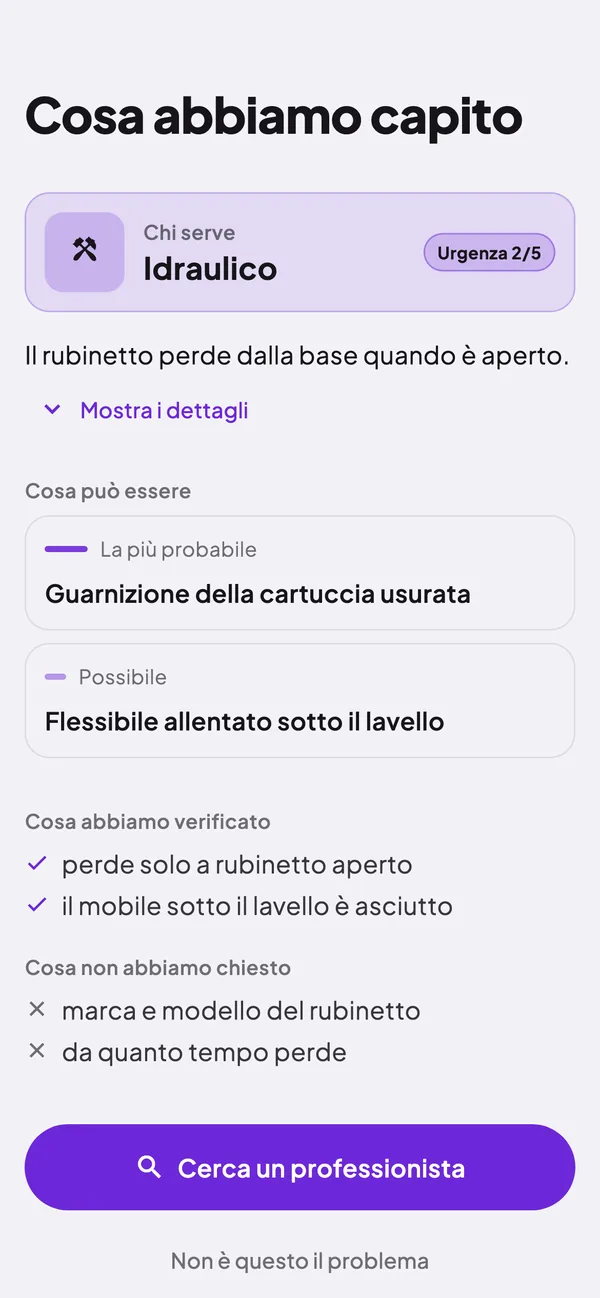
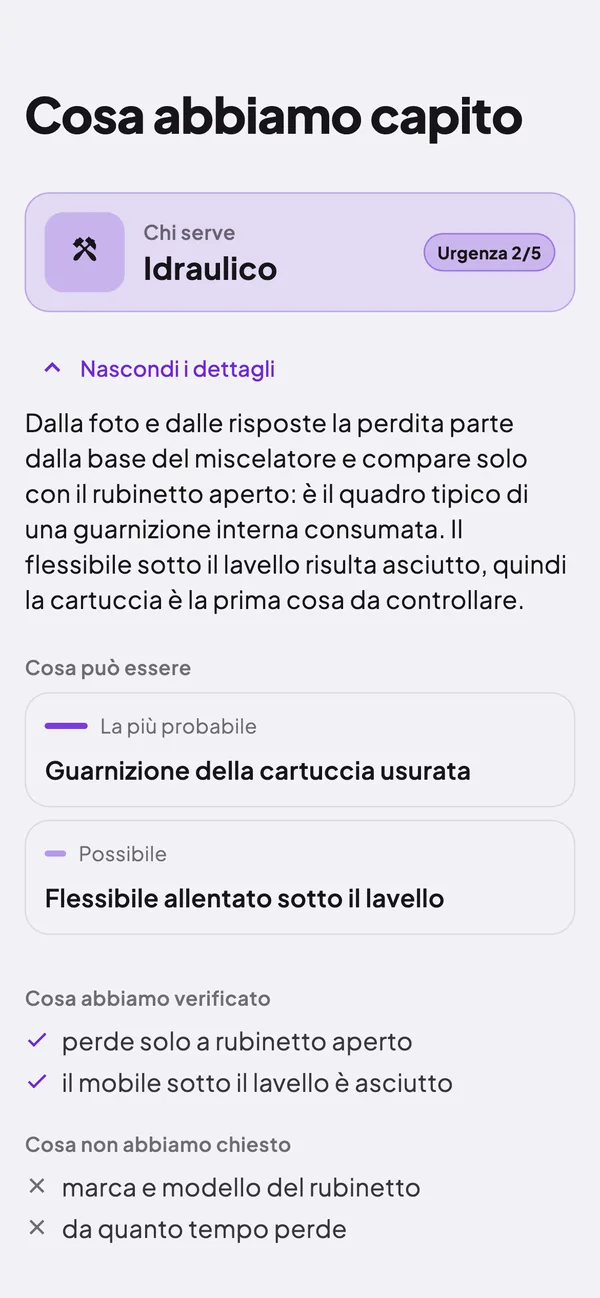
Guide: real triage screens, realistic prices, drop false ID-badge tip (#36)

diff --git a/app/(site)/clienti/page.tsx b/app/(site)/clienti/page.tsx
@@ -42,7 +42,7 @@ const STEPS: GuideStep[] = [
   },
   {
     id: "diagnosi", short: "Il riepilogo", src: `${G}/03.webp`,
-    alt: "Schermata «Cosa abbiamo capito»: chi serve, Idraulico, urgenza 2 su 5, le cause più probabili e il bottone «Cerca un professionista».",
+    alt: "Schermata «Cosa abbiamo capito»: chi serve, Idraulico, urgenza 2 su 5, la spiegazione dell'assistente e le cause più probabili.",
     title: "Controlla cosa ha capito Pluggers",
     text: "Prima di cercare vedi il riepilogo: quale professionista serve, quanto è urgente e le cause più probabili.",
     points: ["Il mestiere, per esempio idraulico", "L'urgenza, da 1 a 5", "Se il riepilogo è sbagliato, tocca «Non è questo il problema» e correggi"],

diff --git a/app/(site)/professionisti/page.tsx b/app/(site)/professionisti/page.tsx
@@ -41,7 +41,6 @@ const STEPS: GuideStep[] = [
     title: "Decidi fin dove ti sposti",
     text: "Inserisci l'indirizzo da cui parti e il raggio, da 1 a 100 km. Ti trovano solo i clienti entro quella distanza.",
     points: ["Il raggio si imposta con il cursore", "Le città in cui lavori, anche più di una", "La descrizione dell'attività e la partita IVA"],
-    tip: "Il documento d'identità serve a verificare che sei tu. I clienti vedono solo il badge della verifica, mai il documento.",
   },
   {
     id: "disponibilita", short: "Orari", src: `${G}/03.webp`,
